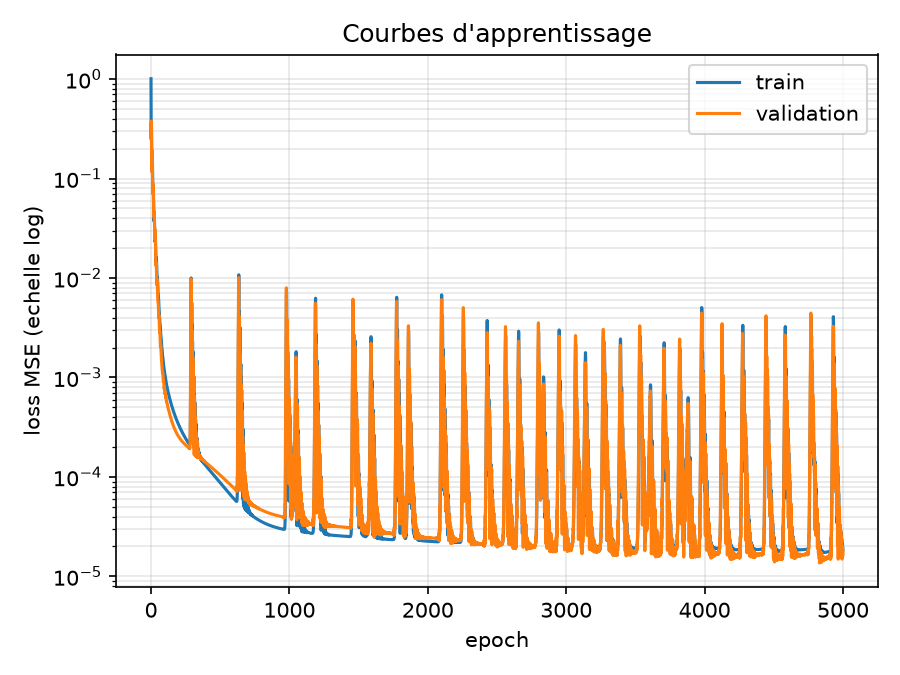
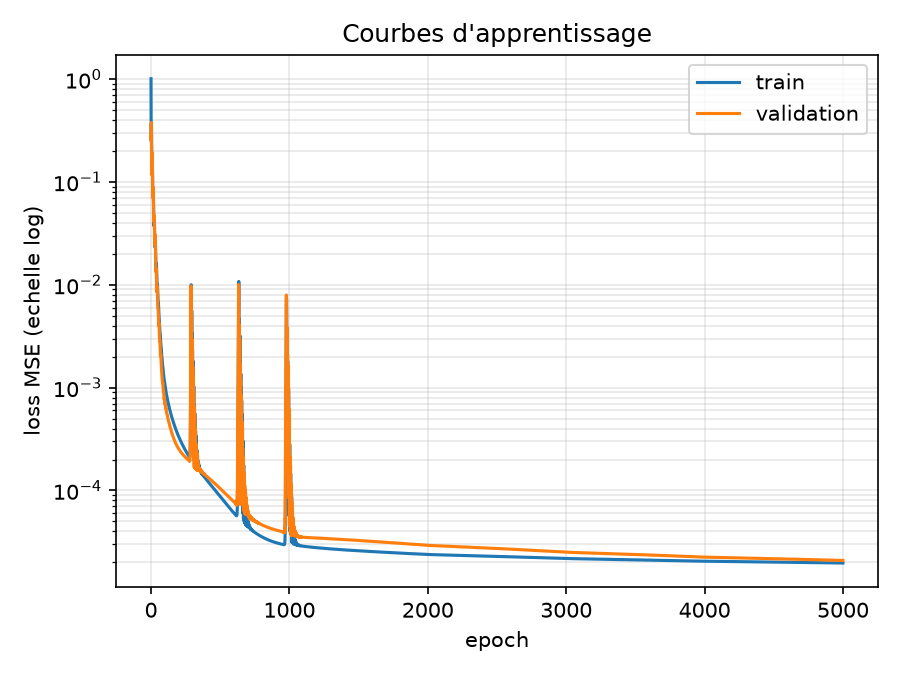
phase1: add StepLR scheduler to smooth training (lr decay)
Add a StepLR scheduler (halve lr every 1000 epochs) to the surrogate
training: keeps fast early convergence then stabilises the late phase,
cutting the post-1000-epoch loss spikes ~21x vs constant lr (val R2
still 1.000). Update the learning-curves figure, README dynamics
section, walkthrough blocks 4bis/5 and glossary.

diff --git a/piml/phase1_surrogate/src/train_surrogate.py b/piml/phase1_surrogate/src/train_surrogate.py
@@ -60,6 +60,9 @@ def main():
         nn.Linear(64, 2),
     )
     opt = torch.optim.Adam(model.parameters(), lr=1e-2, weight_decay=1e-5)
+    # Scheduler : on divise le learning rate par 2 toutes les 1000 epochs.
+    # lr eleve au debut (convergence rapide) -> lr faible a la fin (stable, sans pics).
+    sched = torch.optim.lr_scheduler.StepLR(opt, step_size=1000, gamma=0.5)
     loss_fn = nn.MSELoss()
 
     # --- 5. Boucle : entrainement + validation + early stopping ---
@@ -72,6 +75,7 @@ def main():
         loss = loss_fn(model(Xtr_t), Ytr_t)
         loss.backward()
         opt.step()
+        sched.step()                          # decroit le learning rate au fil des epochs
         # (b) validation (sans gradient)
         model.eval()
         with torch.no_grad():

diff --git a/piml/phase1_surrogate/README.md b/piml/phase1_surrogate/README.md
@@ -17,8 +17,8 @@ concept and every line of `src/train_surrogate.py`.
 
 | Output | Validation RMSE | Validation R² |
 |---|---|---|
-| Cl | 0.0017 | 1.000 |
-| Cd | 0.00006 | 1.000 |
+| Cl | 0.0026 | 1.000 |
+| Cd | 0.00007 | 1.000 |
 
 The surrogate reproduces the polar on **held-out validation points** it never saw during training.
 
@@ -34,9 +34,10 @@ The surrogate reproduces the polar on **held-out validation points** it never sa
 
 ## Dynamique d'entraînement : validation & early stopping
 
-La boucle (v2) suit **deux loss par epoch** — train et validation — et conserve le **meilleur**
-modèle (early stopping). Concepts détaillés dans [`docs/pytorch_guide.md`](../../docs/pytorch_guide.md)
-§12 (boucle canonique) et §14 (régularisation).
+La boucle (v2) suit **deux loss par epoch** — train et validation —, décroît le learning rate via
+un **scheduler (StepLR)**, et conserve le **meilleur** modèle (early stopping). Concepts détaillés
+dans [`docs/pytorch_guide.md`](../../docs/pytorch_guide.md) §11 (scheduler), §12 (boucle canonique)
+et §14 (régularisation).
 
 ![Courbes d'apprentissage](results/figures/learning_curves.png)
 
@@ -44,13 +45,13 @@ modèle (early stopping). Concepts détaillés dans [`docs/pytorch_guide.md`](..
 - **train (bleu) et validation (orange) se superposent** → **aucun surapprentissage**. En cas
   d'overfit, l'orange décrocherait *au-dessus* du bleu ; ici les données sont propres (sans bruit),
   donc le modèle généralise parfaitement (R² = 1.000 en validation).
-- **Les pics réguliers** = **instabilité d'optimisation** : un `lr = 1e-2` un peu élevé (Adam,
-  full-batch) provoque des pas qui sur-corrigent ponctuellement, puis ça se rétablit. Ils
-  apparaissent dans les **deux** courbes en même temps → artefact d'optimisation, **pas** un overfit.
-  Pour les lisser : baisser le `lr` (ex. `3e-3`) ou ajouter un *scheduler*.
+- **Des pics au début, puis un lissage net** : tant que `lr = 1e-2`, Adam (full-batch) fait
+  ponctuellement des pas qui **sur-corrigent** → des pics (présents dans les **deux** courbes
+  ensemble → artefact d'optimisation, **pas** un overfit). Le **scheduler `StepLR`** divise le `lr`
+  par 2 toutes les 1000 epochs : on voit les pics **disparaître après ~epoch 1000**, une fois le
+  `lr` réduit. Gain mesuré : pic max divisé par **~21** vs `lr` constant (guide §11).
 - **Pourquoi l'early stopping sert ici** : on **mémorise les meilleurs poids** (val_loss minimale
-  ≈ 1.4·10⁻⁵) et on les **restaure** à la fin → le modèle livré n'est jamais celui d'un pic, même si
-  l'entraînement reste bruité. Illustration concrète de son intérêt.
+  ≈ 2·10⁻⁵) et on les **restaure** à la fin → le modèle livré n'est jamais celui d'un pic.
 
 Pseudo-code de la boucle (le détail est dans le Bloc 5 plus bas) :
 ```python
@@ -58,6 +59,7 @@ best_val = inf
 for epoch in range(EPOCHS):
     model.train();  opt.zero_grad()                    # 1) entrainement
     loss = mse(model(Xtr), Ytr);  loss.backward();  opt.step()
+    sched.step()                                        #    decroit le learning rate
     model.eval()                                        # 2) validation (sans gradient)
     with torch.no_grad():  vloss = mse(model(Xva), Yva)
     if vloss < best_val:                                # 3) early stopping : garder le meilleur
@@ -185,11 +187,14 @@ model = nn.Sequential(
 ```python
 loss_fn = nn.MSELoss()
 opt = torch.optim.Adam(model.parameters(), lr=1e-2, weight_decay=1e-5)
+sched = torch.optim.lr_scheduler.StepLR(opt, step_size=1000, gamma=0.5)
 ```
 - `MSELoss` = **erreur quadratique moyenne** `moyenne((prédit − vrai)²)`, **le nombre à minimiser**.
 - `Adam` = l'**optimiseur** qui modifie les poids. `lr=1e-2` = **learning rate** (taille du pas).
 - `weight_decay=1e-5` = une **régularisation L2** légère (pénalise les gros poids). Faible ici car
   les données sont propres ; c'est surtout une bonne habitude.
+- `StepLR` = un **scheduler** : il **multiplie le `lr` par 0.5 toutes les 1000 epochs**. `lr` élevé
+  au début (convergence rapide) → `lr` faible à la fin (pas stables, sans pics).
 
 ### Bloc 5 — La boucle d'entraînement (train + validation + early stopping)
 ```python
@@ -198,6 +203,7 @@ for epoch in range(EPOCHS):
     # (a) entrainement
     model.train(); opt.zero_grad()
     loss = loss_fn(model(Xtr_t), Ytr_t); loss.backward(); opt.step()
+    sched.step()                                  # decroit le learning rate
     # (b) validation (sans gradient)
     model.eval()
     with torch.no_grad():
@@ -267,6 +273,7 @@ p_dense = denorm_y(model(torch.tensor(norm_x(a_dense))).numpy())
 | **Rétropropagation** | Calcul des gradients de la loss par rapport aux poids. |
 | **Gradient descent / Adam** | Algorithme qui met à jour les poids pour baisser la loss. |
 | **Learning rate** | Taille du pas de mise à jour des poids. |
+| **Scheduler** | Fait évoluer le learning rate au fil des epochs (ex. le diviser périodiquement) pour stabiliser la fin d'entraînement. |
 | **Inférence** | Utiliser le modèle entraîné pour prédire sur de nouvelles entrées. |
 | **RMSE / R²** | Métriques : erreur typique / qualité d'ajustement (1 = parfait). |
 